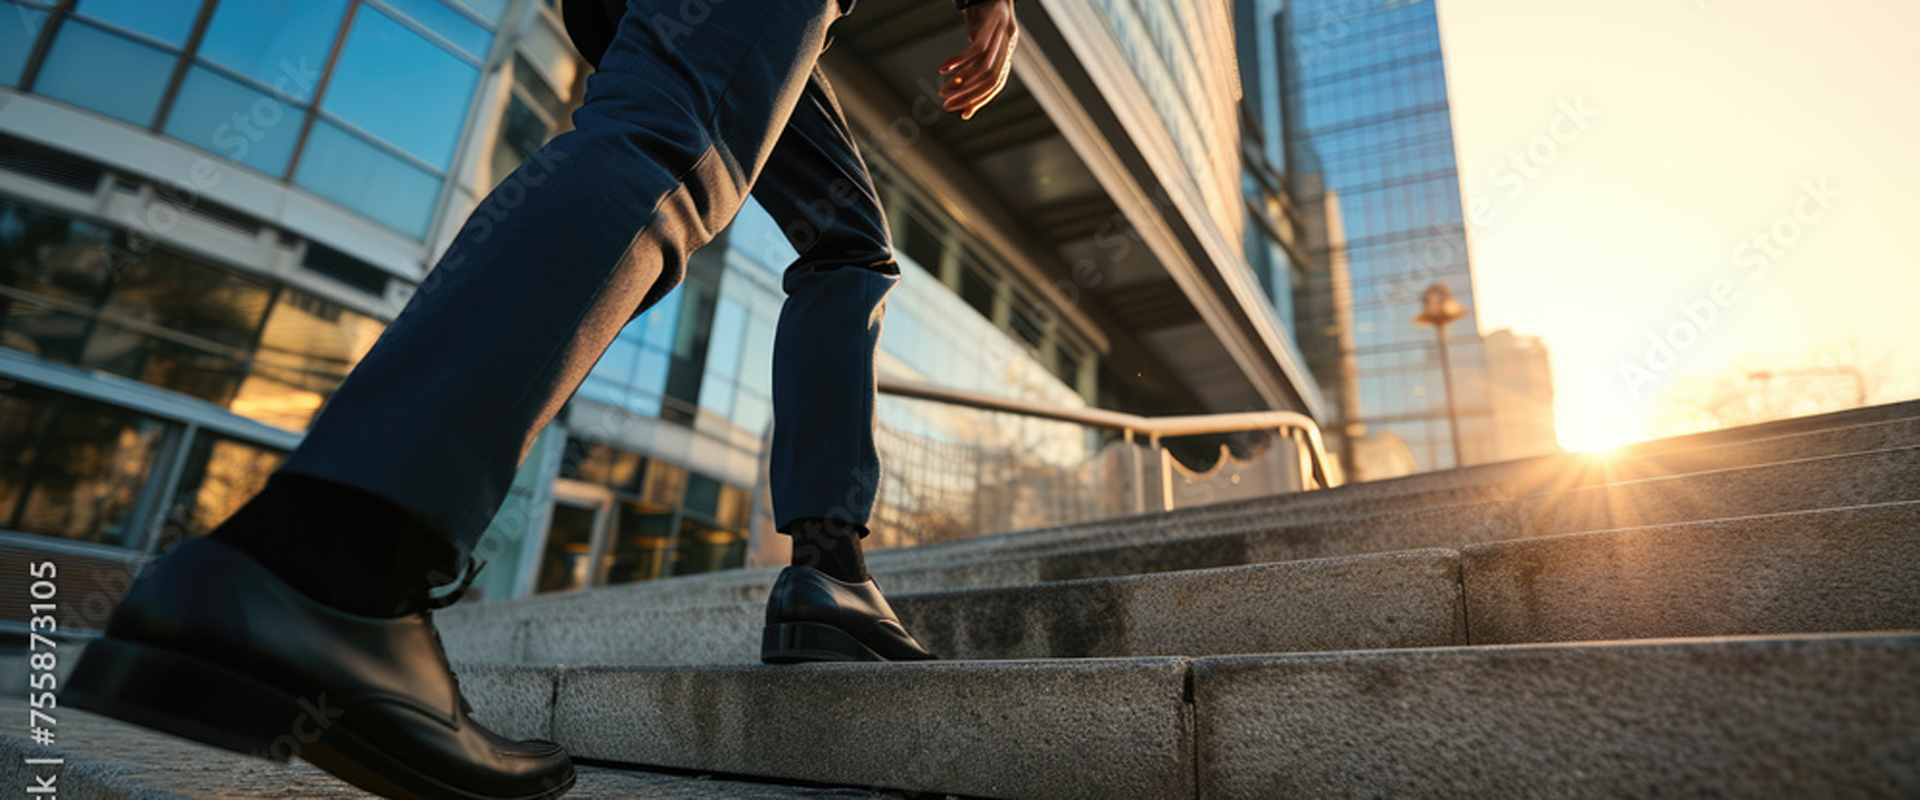
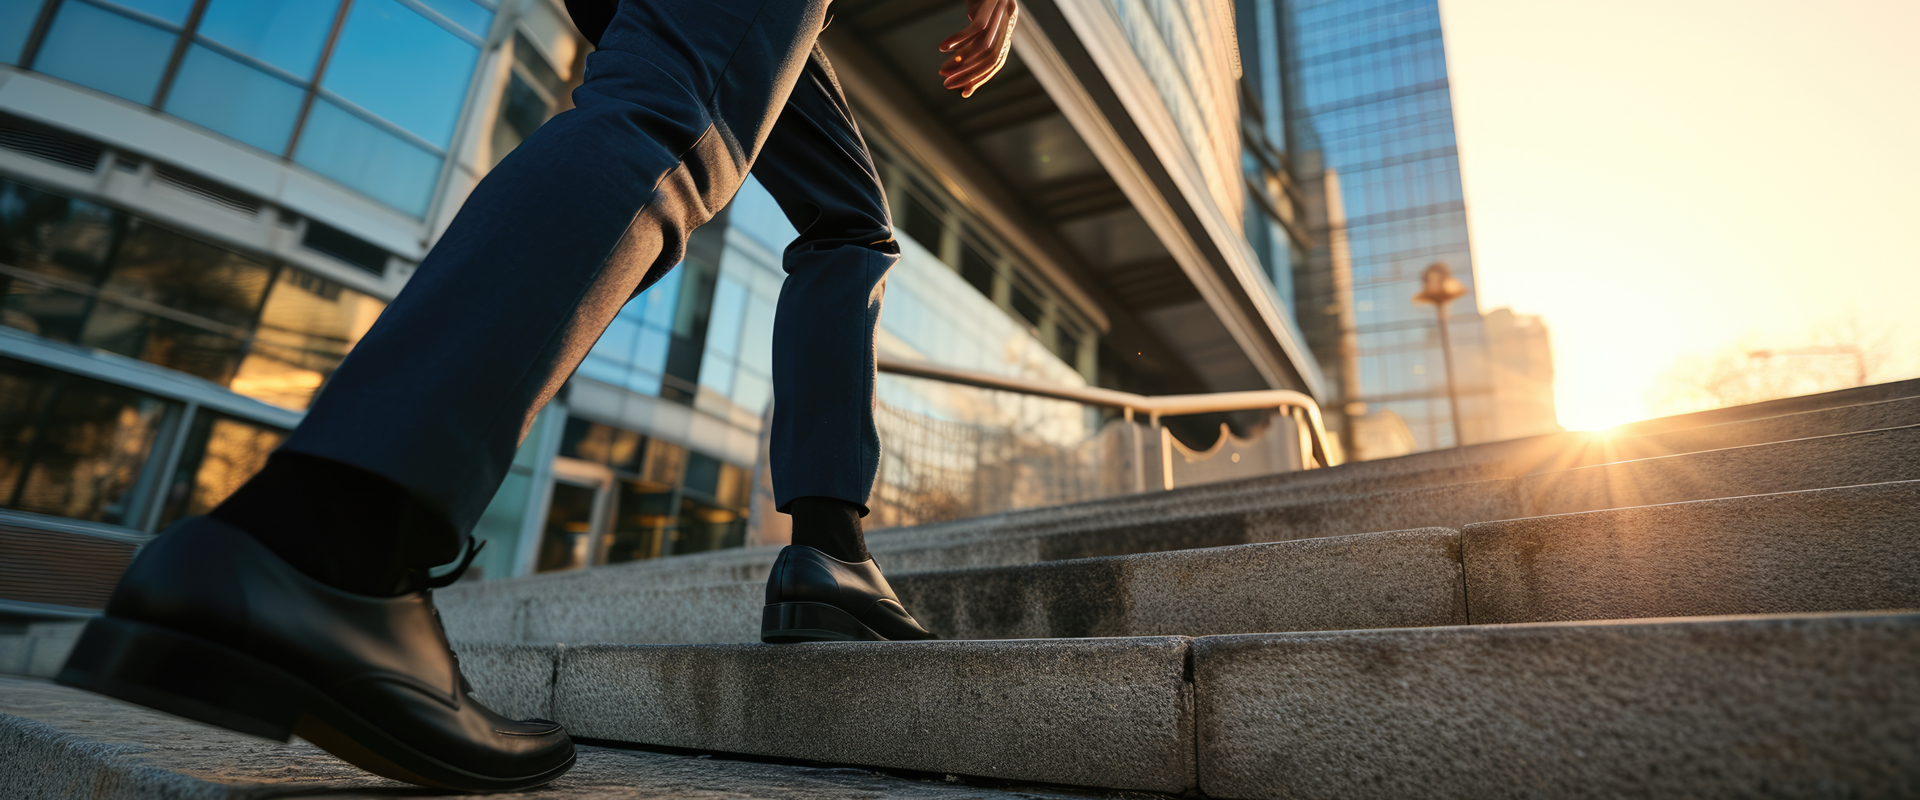
本番画像への切替

diff --git a/bkup/index.html b/bkup/index.html
@@ -1,0 +1,307 @@
+<!DOCTYPE html>
+<html lang="ja">
+<head>
+<meta charset="UTF-8">
+<meta name="description" content="グローイング総研は、お客様が直面している経営の変化（課題・問題）を調査・分析し、その改善に向けた方向性と「ソリューション（解決策）」を提供するコンサルティング会社です。">
+<meta name="keywords" content="グローイング総研,コンサルタント,コンサルティング,ISO,マネジメントシステム">
+<meta name="viewport" content="width=device-width, initial-scale=1, minimum-scale=1, maximum-scale=5">
+<meta name="msapplication-TileImage" content="./msapplication-TileImage.png">
+<meta name="msapplication-TileColor" content="#000">
+<title>グローイング総研</title>
+<link rel="stylesheet" type="text/css" media="screen" href="./css/screen.css">
+<link rel="stylesheet" type="text/css" media="screen and (max-width:660px)" href="./css/screen_sp.css">
+<link rel="stylesheet" type="text/css" media="screen and (min-width:661px) and (max-width:1023px)" href="./css/screen_tb.css">
+<link rel="stylesheet" type="text/css" media="screen and (min-width:1024px)" href="./css/screen_pc.css">
+<link rel="stylesheet" type="text/css" media="print" href="./css/print.css">
+<link rel="apple-touch-icon" href="./apple-touch-icon.png">
+<link rel="icon" type="image/png" href="./favicon-.png" sizes="16x16">
+<link rel="icon" type="image/png" href="./favicon.png" sizes="32x32">
+<script type="text/javascript" src="./lib/jquery/jquery-3.6.0.min.js"></script>
+<script type="text/javascript" src="./lib/jquery/jquery-migrate-1.4.1.min.js"></script>
+</head>
+<body>
+<header>
+	<h1><a href="#"><img src="./img/interface/logo.svg" alt="Growing Soken"></a></h1>
+	<nav>
+		<ul>
+			<li><a href="#message_area">ご挨拶</a></li>
+			<li><a href="#business_area">業務内容</a></li>
+			<li><a href="#company_area">会社概要</a></li>
+			<li><a href="#company_area">会社沿革</a></li>
+			<li><a href="./contact/index.html">お問い合わせ</a></li>
+		</ul>
+	</nav>
+	<span id="nav_btn"></span>
+</header>
+<article id="all_contents">
+	<div id="key_area">
+		<picture>
+			<source srcset="./img/key_bg.jpeg" media="(max-width:660px)">
+			<img src="./img/key_bg.jpeg" alt="Service">
+		</picture>
+		<div id="key_copy">
+			<h2>SERVICE</h2>
+			<p>
+				オンライン及び対面によるサービスがお選びいただけます。
+			</p>
+			<ul>
+				<li>スタンダード開発</li>
+				<li>スタンダード採用</li>
+				<li>ラーニング＆トレーニング</li>
+				<li>事業継続コンサルティング</li>
+				<li>組織人事コンサルティング</li>
+				<li>財務アドバイザリー</li>
+			</ul>
+		</div>
+	</div>
+	<section id="message_area">
+		<div>
+			<h2 class="title02">Message<span>ご挨拶</span></h2>
+			<p class="catchcopy">
+				The excellent management
+			</p>
+			<p>
+				グローイング総研は、お客様が直面している経営の変化（課題・問題）を調査・分析し、その改善に向けた方向性と「ソリューション（解決策）」を提供するコンサルティング会社です。
+			</p>
+			<h3 class="title03">スタンダード活用</h3>
+			<p>
+				「ソリューション」の一例が、組織の目的に合わせた多様なスタンダードの活用です。組織整備を目的に仕様化され普及している国際・国内規格の枠組み利用は、効率的に社内標準を整備することに貢献します。標準を基礎とした人材育成やツール（含むＩＴ）採用が業務平準化に貢献します。
+			</p>
+			<h3 class="title03">事業継続　 組織人事コンサルティング　財務アドバイザリー</h3>
+			<p>
+				他のソリューションとして、事業継続・組織人事コンサルティング、財務・ソリューション営業研修・アドバイザリーのサービスを提供しています。既に組織内の課題・問題が特定され、テーマが絞られたニーズであれば、社内担当者様と相談の上、必要なサービスを提案させていただきます。
+			</p>
+			<h3 class="title03">ラーニング＆トレーニング</h3>
+			<p>
+				成長する人材、これまでより正確な情報（データ・ノウハウ・経験）のストックが、事業計画の推進を担うマネジメント（方針・判断）に役立ちます。当社では、ラーニングおよび実務支援を目的としたトレーニングを、マネジメント力向上のためにバランスを整え提供させていただきます。
+			</p>
+			<h3 class="title03">現在と将来の顧客ニーズによる顧客志向重視</h3>
+			<p>
+				当社のコンサルティングは、顧客志向を重視しますが現在と将来の顧客ニーズを確認させていただき、リスクアセスメントを含め最適なコンサルティングを提供させていただきます。
+			</p>
+			<h3 class="title03">コンサルタント＆講師のコンピテンシー</h3>
+			<p>
+				当社のコンサルタントおよび講師、スタッフのコンピテンシー維持向上は、社内のラーニング＆トレーニングだけではなく、自ら積極的に力量の向上を図る者には独自の品質基準により評価を行い、コンサルタントや講師のモチベーション向上に繋げています。
+			</p>
+		</div>
+	</section>
+	<section id="service_area">
+		<img src="./img/service_pic01.jpeg" alt="対面会議">
+		<img src="./img/service_pic02.jpeg" alt="オンライン会議">
+		<div id="business_area">
+			<h2 class="title02">Service<span>業務内容</span></h2>
+			<table id="service_contents" class="pc">
+				<tr>
+					<th><span>コンサルティング</span><br>財務戦略コンサルティング</th>
+					<th>人事戦略コンサルティング</th>
+					<th>スタンダード開発コンサル</th>
+					<th>ＩＳＯなど"第三者認証"支援コンサルティング</th>
+				</tr>
+				<tr>
+					<td>
+						財務アセスメント<br>
+						体制・機能アセスメント<br>
+						財務管理システム構築<br>
+						財務戦略機能整備<br>
+						財務戦略プロセス構築
+					</td>
+					<td>
+						人事制度アセスメント<br>
+						人事制度構築<br>
+						人事考課アセスメント<br>
+						人事考課構築<br>
+						制度・考課更新コンサルティング
+					</td>
+					<td>
+						サービス・生産管理仕様書開発<br>
+						開発プロセス管理仕様書開発<br>
+						検査プロセス管理仕様書開発<br>
+						人材育成（教育）管理仕様書開発<br>
+						認証スキーム事業開発
+					</td>
+					<td>
+						ＩＳＯ９００１　　品質マネジメントシステム<br>
+						ＩＳＯ１４００１　環境マネジメントシステム<br>
+						ＩＳＯ２２３０１　事業継続マネジメントシステム<br>
+						ＩＳＯ２７００１　情報セキュリティマネジメントシステム<br>
+						ＩＳＯ４５００１　労働安全衛生マネジメントシステム<br>
+						ＩＳＯ３０４１４　人的資本開示ガイドライン<br>
+						<br>
+						※その他規格の認証は、別途ご相談下さい。
+					</td>
+				</tr>
+				<tr>
+					<th colspan="4"><span>教育</span></th>
+				</tr>
+				<tr>
+					<td>
+						財務担当者向け教育<br>
+						財務管理者向け教育<br>
+						内部監査員向け教育<br>
+						経営層向け財務教育
+					</td>
+					<td>
+						一般社員向け教育<br>
+						人事担当者向け教育<br>
+						評価者向け教育<br>
+						制度・考課管理者向け教育
+					</td>
+					<td>
+						仕様書_普及促進教育<br>
+						スタンダード管理担当者向け教育<br>
+						スタンダード管理責任者向け教育<br>
+						スタンダード更新教育
+					</td>
+					<td>
+						社員向けマネジメントシステム教育<br>
+						管理者向けマネジメントシステム教育<br>
+						マネジメントシステム内部監査員教育<br>
+						経営層向けマネジメントシステム教育
+					</td>
+				</tr>
+			</table>
+			<table id="service_contents" class="sp">
+				<tr>
+					<th><span>コンサルティング</span><br>財務戦略コンサルティング</th>
+					<td>
+						財務アセスメント<br>
+						体制・機能アセスメント<br>
+						財務管理システム構築<br>
+						財務戦略機能整備<br>
+						財務戦略プロセス構築
+					</td>
+				</tr>
+				<tr>
+					<th>人事戦略コンサルティング</th>
+					<td>
+						人事制度アセスメント<br>
+						人事制度構築<br>
+						人事考課アセスメント<br>
+						人事考課構築<br>
+						制度・考課更新コンサルティング
+					</td>
+				</tr>
+				<tr>
+					<th>スタンダード開発コンサル</th>
+					<td>
+						サービス・生産管理仕様書開発<br>
+						開発プロセス管理仕様書開発<br>
+						検査プロセス管理仕様書開発<br>
+						人材育成（教育）管理仕様書開発<br>
+						認証スキーム事業開発
+					</td>
+				</tr>
+				<tr>
+					<th>ＩＳＯなど"第三者認証"支援コンサルティング</th>
+					<td>
+						ＩＳＯ９００１　　品質マネジメントシステム<br>
+						ＩＳＯ１４００１　環境マネジメントシステム<br>
+						ＩＳＯ２２３０１　事業継続マネジメントシステム<br>
+						ＩＳＯ２７００１　情報セキュリティマネジメントシステム<br>
+						ＩＳＯ４５００１　労働安全衛生マネジメントシステム<br>
+						ＩＳＯ３０４１４　人的資本開示ガイドライン<br>
+						<br>
+						※その他規格の認証は、別途ご相談下さい。
+					</td>
+				</tr>
+				<tr>
+					<th colspan="4"><span>教育</span></th>
+					<td>
+						財務担当者向け教育<br>
+						財務管理者向け教育<br>
+						内部監査員向け教育<br>
+						経営層向け財務教育
+					</td>
+				</tr>
+				<tr>
+					<td>
+						一般社員向け教育<br>
+						人事担当者向け教育<br>
+						評価者向け教育<br>
+						制度・考課管理者向け教育
+					</td>
+				</tr>
+				<tr>
+					<td>
+						仕様書_普及促進教育<br>
+						スタンダード管理担当者向け教育<br>
+						スタンダード管理責任者向け教育<br>
+						スタンダード更新教育
+					</td>
+				</tr>
+				<tr>
+					<td>
+						社員向けマネジメントシステム教育<br>
+						管理者向けマネジメントシステム教育<br>
+						マネジメントシステム内部監査員教育<br>
+						経営層向けマネジメントシステム教育
+					</td>
+				</tr>
+			</table>
+		</div>
+	</section>
+	<section id="company_area">
+		<div>
+			<h2 class="title02">Company Information</h2>
+			<section>
+				<h3 class="title03">会社概要</h3>
+				<table class="normal_table">
+					<tr><th>社名</th><td>株式会社グローイング総研</td></tr>
+					<tr><th>代表者</th><td>代表取締役社長　小田島英一［Hidekazu Odajima］</td></tr>
+					<tr><th>所在地</th><td>東京オフィス：〒160-0023 東京都新宿区西新宿六丁目15番1<br>本社オフィス：〒339-0077 埼玉県さいたま市岩槻区大字馬込1334番地13</td></tr>
+					<tr><th>電話</th><td>03-6279-4756</td></tr>
+					<tr><th>設立</th><td>2003年2月21日</td></tr>
+					<tr><th>資本金</th><td>1千万円</td></tr>
+				</table>
+			</section>
+			<section>
+				<h3 class="title03">会社沿革</h3>
+				<table class="normal_table">
+					<tr><th>2003年02月</th><td>埼玉県大宮市桜木町（現さいたま市大宮区）にて設立</td></tr>
+					<tr><th>2006年07月</th><td>㈱グローイング総研に社名変更</td></tr>
+					<tr><th>2007年07月</th><td>ISO27001:2005情報セキュリティマネジメントシステム認証取得</td></tr>
+					<tr><th>2011年09月</th><td>ISO29990:2010学習サービスの基本的要求事項認証取得</td></tr>
+					<tr><th>2013年07月</th><td>埼玉県さいたま市岩槻区へ本社移転</td></tr>
+					<tr><th>2013年08月</th><td>東京都新宿区西新宿にて東京オフィス開設</td></tr>
+					<tr><th>2015年01月</th><td>スタンダード開発コンサルティング事業の開始</td></tr>
+					<tr><th>2017年01月</th><td>認定スキーム開発コンサルティング事業の開始</td></tr>
+					<tr><th>2020年04月</th><td>オンラインによるコンサルティング・アドバイザリー開始</td></tr>
+					<tr><th>2020年05月</th><td>オンラインによるラーニング＆トレーニング開始</td></tr>
+					<tr><th>2021年04月</th><td>社内ポータル利用によるスタンダード運用サービス開始</td></tr>
+					<tr><th>2023年04月</th><td>人的資本開示ガイドラインコンサルティング開始</td></tr>
+					<tr><th>2024年04月</th><td>ソリューション_セリング研修の開始</td></tr>
+				</table>
+			</section>
+			<figure>
+				<img src="./img/iso_pic01.jpg" alt="ISO認証取得">
+				<figcaption>認証番号：IS 516188/ISO27001</figcaption>
+			</figure>
+		</div>
+	</section>
+</article>
+<div id="map_area">
+	<div><iframe src="https://www.google.com/maps/embed?pb=!1m18!1m12!1m3!1d8700.863927464392!2d139.68300270334902!3d35.69248029370237!2m3!1f0!2f0!3f0!3m2!1i1024!2i768!4f13.1!3m3!1m2!1s0x6018f2d577cbf919%3A0x4eca7a36f3ef60d6!2z44CSMTYwLTAwMjMg5p2x5Lqs6YO95paw5a6_5Yy66KW_5paw5a6_77yW5LiB55uu77yR77yV4oiS77yR!5e0!3m2!1sja!2sjp!4v1625656086121!5m2!1sja!2sjp" style="border:0;" allowfullscreen="" loading="lazy"></iframe></div>
+	<!-- a href="https://goo.gl/maps/Ti44J4nXUQ3vank87" target="_blank">Googleマップを見る</a -->
+</div>
+<footer>
+	<img src="./img/interface/footer_logo.svg" alt="GROWING">
+	<small>&copy; 2021 Growing Soken co,.Ltd. All right reserved.</small>
+</footer>
+
+<script type="text/javascript">
+$(document).ready(function(){
+	$("#nav_btn").click(function () {
+		$("body>header>nav").slideToggle(150);
+	});
+	var mql = window.matchMedia('screen and (max-width:660px)');
+	function checkBreakPoint(mql) {
+		if (mql.matches) {
+			$('body>header>nav').css({'display':'none'});
+		} else {
+			$('body>header>nav').css({'display':'block'});
+		}
+	}
+});
+</script>
+</body>
+</html>
